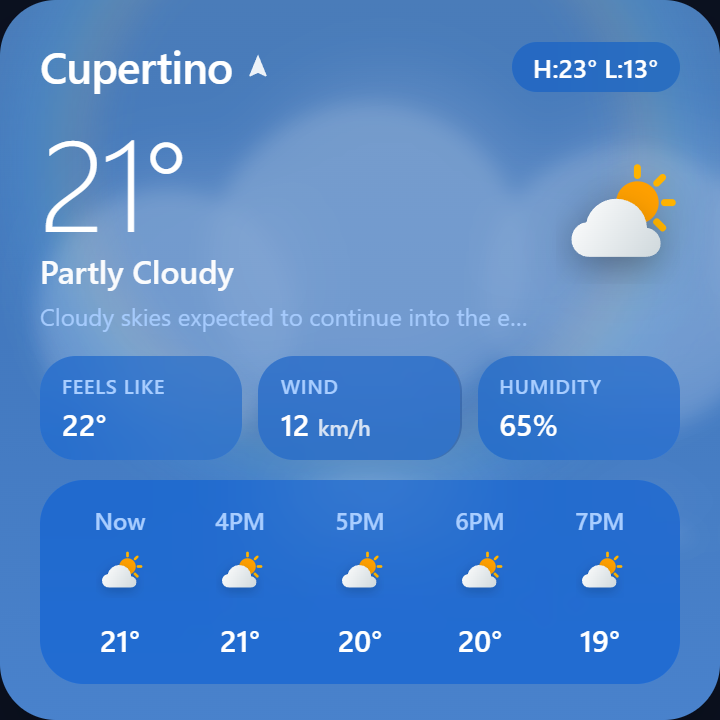
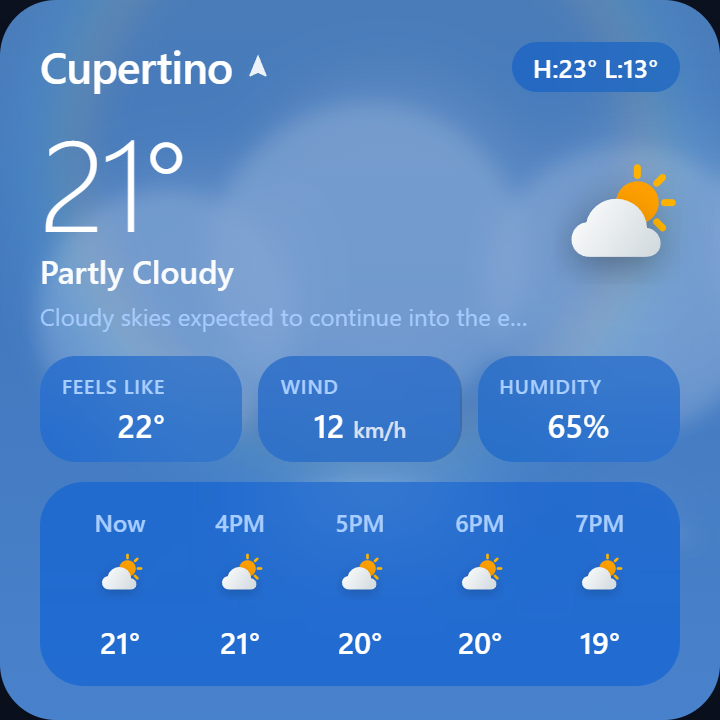
release: v1.1.1 - unify square-fit glass backgrounds, center stat metrics, and fix humidity fallback

diff --git a/src/styles/card-styles.ts b/src/styles/card-styles.ts
@@ -751,10 +751,12 @@ export const cardStyles = css`
   }
 
   .ios-square-fit-stat-val {
-    font-size: 15px;
+    font-size: 16px;
     font-weight: 600;
     color: var(--ios-text-primary);
     white-space: nowrap;
+    width: 100%;
+    text-align: center;
   }
 
   .ios-square-fit-stat-val small {

diff --git a/dist/weather-liquid-glass-card.js b/dist/weather-liquid-glass-card.js
@@ -7804,10 +7804,12 @@ const cardStyles = i$3`
   }
 
   .ios-square-fit-stat-val {
-    font-size: 15px;
+    font-size: 16px;
     font-weight: 600;
     color: var(--ios-text-primary);
     white-space: nowrap;
+    width: 100%;
+    text-align: center;
   }
 
   .ios-square-fit-stat-val small {

diff --git a/weather-liquid-glass-card.js b/weather-liquid-glass-card.js
@@ -7804,10 +7804,12 @@ const cardStyles = i$3`
   }
 
   .ios-square-fit-stat-val {
-    font-size: 15px;
+    font-size: 16px;
     font-weight: 600;
     color: var(--ios-text-primary);
     white-space: nowrap;
+    width: 100%;
+    text-align: center;
   }
 
   .ios-square-fit-stat-val small {

diff --git a/README.md b/README.md
@@ -6,7 +6,7 @@
 </p>
 
 <p align="center">
-  <img src="https://raw.githubusercontent.com/alte-dev/ha-weather-liquid-glass/main/images/icon.png?v=1.1.0" width="128" height="128" alt="Liquid Glass Weather Card Icon">
+  <img src="https://raw.githubusercontent.com/alte-dev/ha-weather-liquid-glass/main/images/icon.png?v=1.1.1" width="128" height="128" alt="Liquid Glass Weather Card Icon">
 </p>
 
 <h1 align="center">🌤 Liquid Glass Weather Card for Home Assistant</h1>
@@ -28,17 +28,17 @@ Apple iOS 27 inspired glassmorphic weather card for Home Assistant Lovelace dash
 ### 1. 🔀 3 Interactive Modes
 | ⛅ Condition & 10-Day Temp | 💧 24h Rain Timeline & Gauge | 💨 Wind Speed & Waves |
 |:---:|:---:|:---:|
-| <img src="https://raw.githubusercontent.com/alte-dev/ha-weather-liquid-glass/main/images/preview-default.png?v=1.1.0" width="240" alt="Condition Mode" /> | <img src="https://raw.githubusercontent.com/alte-dev/ha-weather-liquid-glass/main/images/preview-rain.png?v=1.1.0" width="240" alt="Precipitation Mode" /> | <img src="https://raw.githubusercontent.com/alte-dev/ha-weather-liquid-glass/main/images/preview-wind.png?v=1.1.0" width="240" alt="Wind Mode" /> |
+| <img src="https://raw.githubusercontent.com/alte-dev/ha-weather-liquid-glass/main/images/preview-default.png?v=1.1.1" width="240" alt="Condition Mode" /> | <img src="https://raw.githubusercontent.com/alte-dev/ha-weather-liquid-glass/main/images/preview-rain.png?v=1.1.1" width="240" alt="Precipitation Mode" /> | <img src="https://raw.githubusercontent.com/alte-dev/ha-weather-liquid-glass/main/images/preview-wind.png?v=1.1.1" width="240" alt="Wind Mode" /> |
 
 ### 2. 📐 5 Distinct Card Layouts
 
 | Layout | Screenshot | Description |
 |:---|:---:|:---|
-| **Default (Full)**<br>`card_layout: default` | <img src="https://raw.githubusercontent.com/alte-dev/ha-weather-liquid-glass/main/images/preview-default.png?v=1.1.0" width="200" /> | Full vertical iOS phone style with header, smart highlights, hourly strip, 10-day forecast, and bottom bar. Supports `scrollable: true` and `card_height`. |
-| **Square (Fitted Widget)**<br>`card_layout: square-fit` | <img src="https://raw.githubusercontent.com/alte-dev/ha-weather-liquid-glass/main/images/preview-square-fit.png?v=1.1.0" width="200" /> | 1:1 Square widget with **zero scrolling**! Large temperature, condition summary, 3 frosted quick-stat pills (Feels Like, Wind, Humidity), and 5-hour forecast strip. |
-| **Square (Scrollable)**<br>`card_layout: square-scroll` | <img src="https://raw.githubusercontent.com/alte-dev/ha-weather-liquid-glass/main/images/preview-square-scroll.png?v=1.1.0" width="200" /> | 1:1 Square box with **smooth internal scrolling**! Access the entire rich forecast inside a compact square footprint. |
-| **Compact (Horizontal)**<br>`card_layout: compact` | <img src="https://raw.githubusercontent.com/alte-dev/ha-weather-liquid-glass/main/images/preview-compact.png?v=1.1.0" width="240" /> | Horizontal card (~240px). Side-by-side header with 24h hourly strip, ideal for multi-column dashboards. |
-| **Mini Widget**<br>`card_layout: mini` | <img src="https://raw.githubusercontent.com/alte-dev/ha-weather-liquid-glass/main/images/preview-mini.png?v=1.1.0" width="220" /> | Ultra-clean minimal glanceable widget (~130px). City, big temp, condition, high/low, and rain chance badge. |
+| **Default (Full)**<br>`card_layout: default` | <img src="https://raw.githubusercontent.com/alte-dev/ha-weather-liquid-glass/main/images/preview-default.png?v=1.1.1" width="200" /> | Full vertical iOS phone style with header, smart highlights, hourly strip, 10-day forecast, and bottom bar. Supports `scrollable: true` and `card_height`. |
+| **Square (Fitted Widget)**<br>`card_layout: square-fit` | <img src="https://raw.githubusercontent.com/alte-dev/ha-weather-liquid-glass/main/images/preview-square-fit.png?v=1.1.1" width="200" /> | 1:1 Square widget with **zero scrolling**! Large temperature, condition summary, 3 frosted quick-stat pills (Feels Like, Wind, Humidity), and 5-hour forecast strip. |
+| **Square (Scrollable)**<br>`card_layout: square-scroll` | <img src="https://raw.githubusercontent.com/alte-dev/ha-weather-liquid-glass/main/images/preview-square-scroll.png?v=1.1.1" width="200" /> | 1:1 Square box with **smooth internal scrolling**! Access the entire rich forecast inside a compact square footprint. |
+| **Compact (Horizontal)**<br>`card_layout: compact` | <img src="https://raw.githubusercontent.com/alte-dev/ha-weather-liquid-glass/main/images/preview-compact.png?v=1.1.1" width="240" /> | Horizontal card (~240px). Side-by-side header with 24h hourly strip, ideal for multi-column dashboards. |
+| **Mini Widget**<br>`card_layout: mini` | <img src="https://raw.githubusercontent.com/alte-dev/ha-weather-liquid-glass/main/images/preview-mini.png?v=1.1.1" width="220" /> | Ultra-clean minimal glanceable widget (~130px). City, big temp, condition, high/low, and rain chance badge. |
 
 ### 3. 🎨 Dynamic Atmospheric Weather Backgrounds
 
@@ -46,9 +46,9 @@ Dynamic Apple Weather gradients and sky animations adapted to weather states:
 
 | ☀ Sunny | ⛅ Cloudy / Overcast | 🌧 Rainy |
 |:---:|:---:|:---:|
-| <img src="https://raw.githubusercontent.com/alte-dev/ha-weather-liquid-glass/main/images/theme-sunny.png?v=1.1.0" width="220" alt="Sunny Theme" /> | <img src="https://raw.githubusercontent.com/alte-dev/ha-weather-liquid-glass/main/images/theme-cloudy.png?v=1.1.0" width="220" alt="Cloudy Theme" /> | <img src="https://raw.githubusercontent.com/alte-dev/ha-weather-liquid-glass/main/images/theme-rainy.png?v=1.1.0" width="220" alt="Rainy Theme" /> |
+| <img src="https://raw.githubusercontent.com/alte-dev/ha-weather-liquid-glass/main/images/theme-sunny.png?v=1.1.1" width="220" alt="Sunny Theme" /> | <img src="https://raw.githubusercontent.com/alte-dev/ha-weather-liquid-glass/main/images/theme-cloudy.png?v=1.1.1" width="220" alt="Cloudy Theme" /> | <img src="https://raw.githubusercontent.com/alte-dev/ha-weather-liquid-glass/main/images/theme-rainy.png?v=1.1.1" width="220" alt="Rainy Theme" /> |
 | **❄ Snowy** | **⚡ Thunderstorm** | **🌙 Clear Night** |
-| <img src="https://raw.githubusercontent.com/alte-dev/ha-weather-liquid-glass/main/images/theme-snowy.png?v=1.1.0" width="220" alt="Snowy Theme" /> | <img src="https://raw.githubusercontent.com/alte-dev/ha-weather-liquid-glass/main/images/theme-thunderstorm.png?v=1.1.0" width="220" alt="Thunderstorm Theme" /> | <img src="https://raw.githubusercontent.com/alte-dev/ha-weather-liquid-glass/main/images/theme-night.png?v=1.1.0" width="220" alt="Clear Night Theme" /> |
+| <img src="https://raw.githubusercontent.com/alte-dev/ha-weather-liquid-glass/main/images/theme-snowy.png?v=1.1.1" width="220" alt="Snowy Theme" /> | <img src="https://raw.githubusercontent.com/alte-dev/ha-weather-liquid-glass/main/images/theme-thunderstorm.png?v=1.1.1" width="220" alt="Thunderstorm Theme" /> | <img src="https://raw.githubusercontent.com/alte-dev/ha-weather-liquid-glass/main/images/theme-night.png?v=1.1.1" width="220" alt="Clear Night Theme" /> |
 
 ---
 
@@ -188,6 +188,9 @@ Privacy is a fundamental consideration:
 ## 📋 Changelog
 
 Full version history is available in [CHANGELOG.md](CHANGELOG.md).
+
+### [v1.1.1] - 2026-11-14
+- **✨ Square Fitted (`square-fit`) Polish & Humidity Fix:** Unified frosted glass backgrounds with `default`/`square-scroll`, centered quick-stat metric values, and added multi-source fallbacks so the **Humidity** pill always displays.
 
 ### [v1.1.0] - 2026-11-14
 - **📐 Redesigned Square Fitted Widget (`square-fit`) & Fixed Mini Widget (`mini`):**

diff --git a/README.fr.md b/README.fr.md
@@ -6,7 +6,7 @@
 </p>
 
 <p align="center">
-  <img src="https://raw.githubusercontent.com/alte-dev/ha-weather-liquid-glass/main/images/icon.png?v=1.1.0" width="128" height="128" alt="Liquid Glass Weather Card Icon">
+  <img src="https://raw.githubusercontent.com/alte-dev/ha-weather-liquid-glass/main/images/icon.png?v=1.1.1" width="128" height="128" alt="Liquid Glass Weather Card Icon">
 </p>
 
 <h1 align="center">🌤 Carte Météo Liquid Glass pour Home Assistant</h1>
@@ -28,17 +28,17 @@ Carte météo glassmorphique inspirée d'Apple iOS 27 pour les tableaux de bord 
 ### 1. 🔀 3 Modes interactifs
 | ⛅ Conditions & 10 jours | 💧 24h Précipitations & Intensité | 💨 Vitesse du vent & Ondes |
 |:---:|:---:|:---:|
-| <img src="https://raw.githubusercontent.com/alte-dev/ha-weather-liquid-glass/main/images/preview-default.png?v=1.1.0" width="240" alt="Mode Conditions" /> | <img src="https://raw.githubusercontent.com/alte-dev/ha-weather-liquid-glass/main/images/preview-rain.png?v=1.1.0" width="240" alt="Mode Précipitations" /> | <img src="https://raw.githubusercontent.com/alte-dev/ha-weather-liquid-glass/main/images/preview-wind.png?v=1.1.0" width="240" alt="Mode Vent" /> |
+| <img src="https://raw.githubusercontent.com/alte-dev/ha-weather-liquid-glass/main/images/preview-default.png?v=1.1.1" width="240" alt="Mode Conditions" /> | <img src="https://raw.githubusercontent.com/alte-dev/ha-weather-liquid-glass/main/images/preview-rain.png?v=1.1.1" width="240" alt="Mode Précipitations" /> | <img src="https://raw.githubusercontent.com/alte-dev/ha-weather-liquid-glass/main/images/preview-wind.png?v=1.1.1" width="240" alt="Mode Vent" /> |
 
 ### 2. 📐 5 Dispositions de carte
 
 | Disposition | Capture | Description |
 |:---|:---:|:---|
-| **Défaut (Complet)**<br>`card_layout: default` | <img src="https://raw.githubusercontent.com/alte-dev/ha-weather-liquid-glass/main/images/preview-default.png?v=1.1.0" width="200" /> | Vue verticale complète style iPhone avec en-tête, points forts, prévisions horaires, liste sur 10 jours et barre inférieure. Prend en charge `scrollable: true` et `card_height`. |
-| **Carré (Widget Ajusté)**<br>`card_layout: square-fit` | <img src="https://raw.githubusercontent.com/alte-dev/ha-weather-liquid-glass/main/images/preview-square-fit.png?v=1.1.0" width="200" /> | Widget carré 1:1 avec **zéro défilement**! Grande température, icône animée, sélecteur à 3 modes et boîte de prévisions sur 5 heures. |
-| **Carré (Avec Défilement)**<br>`card_layout: square-scroll` | <img src="https://raw.githubusercontent.com/alte-dev/ha-weather-liquid-glass/main/images/preview-square-scroll.png?v=1.1.0" width="200" /> | Carte carrée 1:1 avec **défilement vertical fluide**! Toutes les informations avec de subtiles animations de pluie et de neige en arrière-plan. |
-| **Compact (Horizontal)**<br>`card_layout: compact` | <img src="https://raw.githubusercontent.com/alte-dev/ha-weather-liquid-glass/main/images/preview-compact.png?v=1.1.0" width="240" /> | Carte rectangulaire (~240px). En-tête côte à côte avec prévisions sur 24 heures, idéale pour les tableaux de bord à colonnes multiples. |
-| **Mini Widget**<br>`card_layout: mini` | <img src="https://raw.githubusercontent.com/alte-dev/ha-weather-liquid-glass/main/images/preview-mini.png?v=1.1.0" width="220" /> | Widget minimaliste épuré (~130px). Ville, température, condition, maximales/minimales et badge de probabilité de pluie. |
+| **Défaut (Complet)**<br>`card_layout: default` | <img src="https://raw.githubusercontent.com/alte-dev/ha-weather-liquid-glass/main/images/preview-default.png?v=1.1.1" width="200" /> | Vue verticale complète style iPhone avec en-tête, points forts, prévisions horaires, liste sur 10 jours et barre inférieure. Prend en charge `scrollable: true` et `card_height`. |
+| **Carré (Widget Ajusté)**<br>`card_layout: square-fit` | <img src="https://raw.githubusercontent.com/alte-dev/ha-weather-liquid-glass/main/images/preview-square-fit.png?v=1.1.1" width="200" /> | Widget carré 1:1 avec **zéro défilement**! Grande température, icône animée, sélecteur à 3 modes et boîte de prévisions sur 5 heures. |
+| **Carré (Avec Défilement)**<br>`card_layout: square-scroll` | <img src="https://raw.githubusercontent.com/alte-dev/ha-weather-liquid-glass/main/images/preview-square-scroll.png?v=1.1.1" width="200" /> | Carte carrée 1:1 avec **défilement vertical fluide**! Toutes les informations avec de subtiles animations de pluie et de neige en arrière-plan. |
+| **Compact (Horizontal)**<br>`card_layout: compact` | <img src="https://raw.githubusercontent.com/alte-dev/ha-weather-liquid-glass/main/images/preview-compact.png?v=1.1.1" width="240" /> | Carte rectangulaire (~240px). En-tête côte à côte avec prévisions sur 24 heures, idéale pour les tableaux de bord à colonnes multiples. |
+| **Mini Widget**<br>`card_layout: mini` | <img src="https://raw.githubusercontent.com/alte-dev/ha-weather-liquid-glass/main/images/preview-mini.png?v=1.1.1" width="220" /> | Widget minimaliste épuré (~130px). Ville, température, condition, maximales/minimales et badge de probabilité de pluie. |
 
 ### 3. 🎨 Arrières-plans météo atmosphériques dynamiques
 
@@ -46,9 +46,9 @@ Dégradés Apple Weather adaptés automatiquement selon les conditions météoro
 
 | ☀ Ensoleillé | ⛅ Nuageux / Couvert | 🌧 Pluie (Effet subtil) |
 |:---:|:---:|:---:|
-| <img src="https://raw.githubusercontent.com/alte-dev/ha-weather-liquid-glass/main/images/theme-sunny.png?v=1.1.0" width="220" alt="Thème Ensoleillé" /> | <img src="https://raw.githubusercontent.com/alte-dev/ha-weather-liquid-glass/main/images/theme-cloudy.png?v=1.1.0" width="220" alt="Thème Nuageux" /> | <img src="https://raw.githubusercontent.com/alte-dev/ha-weather-liquid-glass/main/images/theme-rainy.png?v=1.1.0" width="220" alt="Thème Pluie" /> |
+| <img src="https://raw.githubusercontent.com/alte-dev/ha-weather-liquid-glass/main/images/theme-sunny.png?v=1.1.1" width="220" alt="Thème Ensoleillé" /> | <img src="https://raw.githubusercontent.com/alte-dev/ha-weather-liquid-glass/main/images/theme-cloudy.png?v=1.1.1" width="220" alt="Thème Nuageux" /> | <img src="https://raw.githubusercontent.com/alte-dev/ha-weather-liquid-glass/main/images/theme-rainy.png?v=1.1.1" width="220" alt="Thème Pluie" /> |
 | **❄ Neige (Flocons légers)** | **⚡ Orage / Éclairs** | **🌙 Nuit claire** |
-| <img src="https://raw.githubusercontent.com/alte-dev/ha-weather-liquid-glass/main/images/theme-snowy.png?v=1.1.0" width="220" alt="Thème Neige" /> | <img src="https://raw.githubusercontent.com/alte-dev/ha-weather-liquid-glass/main/images/theme-thunderstorm.png?v=1.1.0" width="220" alt="Thème Orage" /> | <img src="https://raw.githubusercontent.com/alte-dev/ha-weather-liquid-glass/main/images/theme-night.png?v=1.1.0" width="220" alt="Thème Nuit Claire" /> |
+| <img src="https://raw.githubusercontent.com/alte-dev/ha-weather-liquid-glass/main/images/theme-snowy.png?v=1.1.1" width="220" alt="Thème Neige" /> | <img src="https://raw.githubusercontent.com/alte-dev/ha-weather-liquid-glass/main/images/theme-thunderstorm.png?v=1.1.1" width="220" alt="Thème Orage" /> | <img src="https://raw.githubusercontent.com/alte-dev/ha-weather-liquid-glass/main/images/theme-night.png?v=1.1.1" width="220" alt="Thème Nuit Claire" /> |
 
 ---
 

diff --git a/README.de.md b/README.de.md
@@ -6,7 +6,7 @@
 </p>
 
 <p align="center">
-  <img src="https://raw.githubusercontent.com/alte-dev/ha-weather-liquid-glass/main/images/icon.png?v=1.1.0" width="128" height="128" alt="Liquid Glass Weather Card Icon">
+  <img src="https://raw.githubusercontent.com/alte-dev/ha-weather-liquid-glass/main/images/icon.png?v=1.1.1" width="128" height="128" alt="Liquid Glass Weather Card Icon">
 </p>
 
 <h1 align="center">🌤 Liquid Glass Wetterkarte für Home Assistant</h1>
@@ -28,17 +28,17 @@ Von Apple iOS 27 inspirierte Wetterkarte im Glasmorphismus-Design für Home Assi
 ### 1. 🔀 3 Interaktive Modi
 | ⛅ Bedingungen & 10-Tage-Temp | 💧 24h Regenzeitachse & Pegel | 💨 Windgeschwindigkeit & Wellen |
 |:---:|:---:|:---:|
-| <img src="https://raw.githubusercontent.com/alte-dev/ha-weather-liquid-glass/main/images/preview-default.png?v=1.1.0" width="240" alt="Bedingungsmodus" /> | <img src="https://raw.githubusercontent.com/alte-dev/ha-weather-liquid-glass/main/images/preview-rain.png?v=1.1.0" width="240" alt="Niederschlagsmodus" /> | <img src="https://raw.githubusercontent.com/alte-dev/ha-weather-liquid-glass/main/images/preview-wind.png?v=1.1.0" width="240" alt="Windmodus" /> |
+| <img src="https://raw.githubusercontent.com/alte-dev/ha-weather-liquid-glass/main/images/preview-default.png?v=1.1.1" width="240" alt="Bedingungsmodus" /> | <img src="https://raw.githubusercontent.com/alte-dev/ha-weather-liquid-glass/main/images/preview-rain.png?v=1.1.1" width="240" alt="Niederschlagsmodus" /> | <img src="https://raw.githubusercontent.com/alte-dev/ha-weather-liquid-glass/main/images/preview-wind.png?v=1.1.1" width="240" alt="Windmodus" /> |
 
 ### 2. 📐 5 Verschiedene Kartenlayouts
 
 | Layout | Screenshot | Beschreibung |
 |:---|:---:|:---|
-| **Standard (Vollansicht)**<br>`card_layout: default` | <img src="https://raw.githubusercontent.com/alte-dev/ha-weather-liquid-glass/main/images/preview-default.png?v=1.1.0" width="200" /> | Vollständige vertikale iOS-Smartphone-Ansicht mit Kopfzeile, Highlights, 24h-Stundenleiste, 10-Tage-Vorhersage und Fußzeile. Unterstützt `scrollable: true` und `card_height`. |
-| **Quadrat (Angepasstes Widget)**<br>`card_layout: square-fit` | <img src="https://raw.githubusercontent.com/alte-dev/ha-weather-liquid-glass/main/images/preview-square-fit.png?v=1.1.0" width="200" /> | 1:1 Quadratisches Widget mit **Null Scrollen**! Große Temperatur, animiertes Symbol, 3-Wege-Umschalter und 5-Stunden-Kompaktleiste. |
-| **Quadrat (Scrollbar)**<br>`card_layout: square-scroll` | <img src="https://raw.githubusercontent.com/alte-dev/ha-weather-liquid-glass/main/images/preview-square-scroll.png?v=1.1.0" width="200" /> | 1:1 Quadratisches Feld mit **flüssigem vertikalen Scrollen**! Alle Vorhersagen in kompakter quadratischer Größe mit dezenten Regen- und Schnee-Hintergrundanimationen. |
-| **Kompakt (Horizontal)**<br>`card_layout: compact` | <img src="https://raw.githubusercontent.com/alte-dev/ha-weather-liquid-glass/main/images/preview-compact.png?v=1.1.0" width="240" /> | Horizontale Rechteckkarte (~240px). Nebeneinanderliegende Kopfzeile mit 24h-Stundenleiste, ideal für Spalten-Dashboards. |
-| **Mini-Widget**<br>`card_layout: mini` | <img src="https://raw.githubusercontent.com/alte-dev/ha-weather-liquid-glass/main/images/preview-mini.png?v=1.1.0" width="220" /> | Minimalistisches Widget (~130px). Stadt, große Temperatur, Wetterzustand, Höchst-/Tiefstwert und Regenwahrscheinlichkeitsplakette. |
+| **Standard (Vollansicht)**<br>`card_layout: default` | <img src="https://raw.githubusercontent.com/alte-dev/ha-weather-liquid-glass/main/images/preview-default.png?v=1.1.1" width="200" /> | Vollständige vertikale iOS-Smartphone-Ansicht mit Kopfzeile, Highlights, 24h-Stundenleiste, 10-Tage-Vorhersage und Fußzeile. Unterstützt `scrollable: true` und `card_height`. |
+| **Quadrat (Angepasstes Widget)**<br>`card_layout: square-fit` | <img src="https://raw.githubusercontent.com/alte-dev/ha-weather-liquid-glass/main/images/preview-square-fit.png?v=1.1.1" width="200" /> | 1:1 Quadratisches Widget mit **Null Scrollen**! Große Temperatur, animiertes Symbol, 3-Wege-Umschalter und 5-Stunden-Kompaktleiste. |
+| **Quadrat (Scrollbar)**<br>`card_layout: square-scroll` | <img src="https://raw.githubusercontent.com/alte-dev/ha-weather-liquid-glass/main/images/preview-square-scroll.png?v=1.1.1" width="200" /> | 1:1 Quadratisches Feld mit **flüssigem vertikalen Scrollen**! Alle Vorhersagen in kompakter quadratischer Größe mit dezenten Regen- und Schnee-Hintergrundanimationen. |
+| **Kompakt (Horizontal)**<br>`card_layout: compact` | <img src="https://raw.githubusercontent.com/alte-dev/ha-weather-liquid-glass/main/images/preview-compact.png?v=1.1.1" width="240" /> | Horizontale Rechteckkarte (~240px). Nebeneinanderliegende Kopfzeile mit 24h-Stundenleiste, ideal für Spalten-Dashboards. |
+| **Mini-Widget**<br>`card_layout: mini` | <img src="https://raw.githubusercontent.com/alte-dev/ha-weather-liquid-glass/main/images/preview-mini.png?v=1.1.1" width="220" /> | Minimalistisches Widget (~130px). Stadt, große Temperatur, Wetterzustand, Höchst-/Tiefstwert und Regenwahrscheinlichkeitsplakette. |
 
 ### 3. 🎨 Dynamische atmosphärische Wetterhintergründe
 
@@ -46,9 +46,9 @@ Automatische Apple Weather-Farbverläufe und lebendige Himmelsanimationen angepa
 
 | ☀ Sonnig | ⛅ Bewölkt / Bedeckt | 🌧 Regen (Subtile Animation) |
 |:---:|:---:|:---:|
-| <img src="https://raw.githubusercontent.com/alte-dev/ha-weather-liquid-glass/main/images/theme-sunny.png?v=1.1.0" width="220" alt="Sonniges Thema" /> | <img src="https://raw.githubusercontent.com/alte-dev/ha-weather-liquid-glass/main/images/theme-cloudy.png?v=1.1.0" width="220" alt="Bewölktes Thema" /> | <img src="https://raw.githubusercontent.com/alte-dev/ha-weather-liquid-glass/main/images/theme-rainy.png?v=1.1.0" width="220" alt="Regen-Thema" /> |
+| <img src="https://raw.githubusercontent.com/alte-dev/ha-weather-liquid-glass/main/images/theme-sunny.png?v=1.1.1" width="220" alt="Sonniges Thema" /> | <img src="https://raw.githubusercontent.com/alte-dev/ha-weather-liquid-glass/main/images/theme-cloudy.png?v=1.1.1" width="220" alt="Bewölktes Thema" /> | <img src="https://raw.githubusercontent.com/alte-dev/ha-weather-liquid-glass/main/images/theme-rainy.png?v=1.1.1" width="220" alt="Regen-Thema" /> |
 | **❄ Schnee (Sanfte Flocken)** | **⚡ Gewitter / Blitz** | **🌙 Klare Nacht** |
-| <img src="https://raw.githubusercontent.com/alte-dev/ha-weather-liquid-glass/main/images/theme-snowy.png?v=1.1.0" width="220" alt="Schnee-Thema" /> | <img src="https://raw.githubusercontent.com/alte-dev/ha-weather-liquid-glass/main/images/theme-thunderstorm.png?v=1.1.0" width="220" alt="Gewitter-Thema" /> | <img src="https://raw.githubusercontent.com/alte-dev/ha-weather-liquid-glass/main/images/theme-night.png?v=1.1.0" width="220" alt="Klare Nacht-Thema" /> |
+| <img src="https://raw.githubusercontent.com/alte-dev/ha-weather-liquid-glass/main/images/theme-snowy.png?v=1.1.1" width="220" alt="Schnee-Thema" /> | <img src="https://raw.githubusercontent.com/alte-dev/ha-weather-liquid-glass/main/images/theme-thunderstorm.png?v=1.1.1" width="220" alt="Gewitter-Thema" /> | <img src="https://raw.githubusercontent.com/alte-dev/ha-weather-liquid-glass/main/images/theme-night.png?v=1.1.1" width="220" alt="Klare Nacht-Thema" /> |
 
 ---
 

diff --git a/README.es.md b/README.es.md
@@ -6,7 +6,7 @@
 </p>
 
 <p align="center">
-  <img src="https://raw.githubusercontent.com/alte-dev/ha-weather-liquid-glass/main/images/icon.png?v=1.1.0" width="128" height="128" alt="Liquid Glass Weather Card Icon">
+  <img src="https://raw.githubusercontent.com/alte-dev/ha-weather-liquid-glass/main/images/icon.png?v=1.1.1" width="128" height="128" alt="Liquid Glass Weather Card Icon">
 </p>
 
 <h1 align="center">🌤 Tarjeta del Tiempo iOS 27 para Home Assistant</h1>
@@ -28,17 +28,17 @@ Tarjeta meteorológica inspirada en Apple iOS 27 con estética de cristal transl
 ### 1. 🔀 3 Modos interactivos
 | ⛅ Condiciones y 10 días | 💧 24h Lluvia e intensidad | 💨 Viento y ondas |
 |:---:|:---:|:---:|
-| <img src="https://raw.githubusercontent.com/alte-dev/ha-weather-liquid-glass/main/images/preview-default.png?v=1.1.0" width="240" alt="Modo Condiciones" /> | <img src="https://raw.githubusercontent.com/alte-dev/ha-weather-liquid-glass/main/images/preview-rain.png?v=1.1.0" width="240" alt="Modo Precipitación" /> | <img src="https://raw.githubusercontent.com/alte-dev/ha-weather-liquid-glass/main/images/preview-wind.png?v=1.1.0" width="240" alt="Modo Viento" /> |
+| <img src="https://raw.githubusercontent.com/alte-dev/ha-weather-liquid-glass/main/images/preview-default.png?v=1.1.1" width="240" alt="Modo Condiciones" /> | <img src="https://raw.githubusercontent.com/alte-dev/ha-weather-liquid-glass/main/images/preview-rain.png?v=1.1.1" width="240" alt="Modo Precipitación" /> | <img src="https://raw.githubusercontent.com/alte-dev/ha-weather-liquid-glass/main/images/preview-wind.png?v=1.1.1" width="240" alt="Modo Viento" /> |
 
 ### 2. 📐 5 Diseños de tarjeta
 
 | Diseño (Layout) | Captura | Descripción |
 |:---|:---:|:---|
-| **Predeterminado (Completo)**<br>`card_layout: default` | <img src="https://raw.githubusercontent.com/alte-dev/ha-weather-liquid-glass/main/images/preview-default.png?v=1.1.0" width="200" /> | Vista vertical completa estilo iPhone con cabecera, destacados, pronóstico por horas, lista de 10 días y barra inferior. Admite `scrollable: true` y `card_height`. |
-| **Cuadrado (Ajuste Widget)**<br>`card_layout: square-fit` | <img src="https://raw.githubusercontent.com/alte-dev/ha-weather-liquid-glass/main/images/preview-square-fit.png?v=1.1.0" width="200" /> | Widget cuadrado 1:1 con **cero desplazamiento**! Gran temperatura, icono animado, selector de 3 modos y caja de pronóstico de 5 horas. |
-| **Cuadrado (Con Scroll)**<br>`card_layout: square-scroll` | <img src="https://raw.githubusercontent.com/alte-dev/ha-weather-liquid-glass/main/images/preview-square-scroll.png?v=1.1.0" width="200" /> | Tarjeta cuadrada 1:1 con **desplazamiento vertical fluido**! Información completa con animaciones sutiles de lluvia y nieve de fondo. |
-| **Compacto (Horizontal)**<br>`card_layout: compact` | <img src="https://raw.githubusercontent.com/alte-dev/ha-weather-liquid-glass/main/images/preview-compact.png?v=1.1.0" width="240" /> | Tarjeta rectangular (~240px). Cabecera en paralelo con pronóstico por horas de 24h, ideal para paneles con múltiples columnas. |
-| **Mini Widget**<br>`card_layout: mini` | <img src="https://raw.githubusercontent.com/alte-dev/ha-weather-liquid-glass/main/images/preview-mini.png?v=1.1.0" width="220" /> | Widget minimalista (~130px). Ciudad, temperatura, estado del tiempo, máximas/mínimas y probabilidad de lluvia. |
+| **Predeterminado (Completo)**<br>`card_layout: default` | <img src="https://raw.githubusercontent.com/alte-dev/ha-weather-liquid-glass/main/images/preview-default.png?v=1.1.1" width="200" /> | Vista vertical completa estilo iPhone con cabecera, destacados, pronóstico por horas, lista de 10 días y barra inferior. Admite `scrollable: true` y `card_height`. |
+| **Cuadrado (Ajuste Widget)**<br>`card_layout: square-fit` | <img src="https://raw.githubusercontent.com/alte-dev/ha-weather-liquid-glass/main/images/preview-square-fit.png?v=1.1.1" width="200" /> | Widget cuadrado 1:1 con **cero desplazamiento**! Gran temperatura, icono animado, selector de 3 modos y caja de pronóstico de 5 horas. |
+| **Cuadrado (Con Scroll)**<br>`card_layout: square-scroll` | <img src="https://raw.githubusercontent.com/alte-dev/ha-weather-liquid-glass/main/images/preview-square-scroll.png?v=1.1.1" width="200" /> | Tarjeta cuadrada 1:1 con **desplazamiento vertical fluido**! Información completa con animaciones sutiles de lluvia y nieve de fondo. |
+| **Compacto (Horizontal)**<br>`card_layout: compact` | <img src="https://raw.githubusercontent.com/alte-dev/ha-weather-liquid-glass/main/images/preview-compact.png?v=1.1.1" width="240" /> | Tarjeta rectangular (~240px). Cabecera en paralelo con pronóstico por horas de 24h, ideal para paneles con múltiples columnas. |
+| **Mini Widget**<br>`card_layout: mini` | <img src="https://raw.githubusercontent.com/alte-dev/ha-weather-liquid-glass/main/images/preview-mini.png?v=1.1.1" width="220" /> | Widget minimalista (~130px). Ciudad, temperatura, estado del tiempo, máximas/mínimas y probabilidad de lluvia. |
 
 ### 3. 🎨 Fondos atmosféricos dinámicos
 
@@ -46,9 +46,9 @@ Gradientes Apple Weather adaptados automáticamente a las condiciones meteoroló
 
 | ☀ Soleado | ⛅ Nublado / Cubierto | 🌧 Lluvia (Efecto sutil) |
 |:---:|:---:|:---:|
-| <img src="https://raw.githubusercontent.com/alte-dev/ha-weather-liquid-glass/main/images/theme-sunny.png?v=1.1.0" width="220" alt="Tema Soleado" /> | <img src="https://raw.githubusercontent.com/alte-dev/ha-weather-liquid-glass/main/images/theme-cloudy.png?v=1.1.0" width="220" alt="Tema Nublado" /> | <img src="https://raw.githubusercontent.com/alte-dev/ha-weather-liquid-glass/main/images/theme-rainy.png?v=1.1.0" width="220" alt="Tema Lluvioso" /> |
+| <img src="https://raw.githubusercontent.com/alte-dev/ha-weather-liquid-glass/main/images/theme-sunny.png?v=1.1.1" width="220" alt="Tema Soleado" /> | <img src="https://raw.githubusercontent.com/alte-dev/ha-weather-liquid-glass/main/images/theme-cloudy.png?v=1.1.1" width="220" alt="Tema Nublado" /> | <img src="https://raw.githubusercontent.com/alte-dev/ha-weather-liquid-glass/main/images/theme-rainy.png?v=1.1.1" width="220" alt="Tema Lluvioso" /> |
 | **❄ Nieve (Copos suaves)** | **⚡ Tormenta / Rayos** | **🌙 Noche despejada** |
-| <img src="https://raw.githubusercontent.com/alte-dev/ha-weather-liquid-glass/main/images/theme-snowy.png?v=1.1.0" width="220" alt="Tema Nieve" /> | <img src="https://raw.githubusercontent.com/alte-dev/ha-weather-liquid-glass/main/images/theme-thunderstorm.png?v=1.1.0" width="220" alt="Tema Tormenta" /> | <img src="https://raw.githubusercontent.com/alte-dev/ha-weather-liquid-glass/main/images/theme-night.png?v=1.1.0" width="220" alt="Tema Noche" /> |
+| <img src="https://raw.githubusercontent.com/alte-dev/ha-weather-liquid-glass/main/images/theme-snowy.png?v=1.1.1" width="220" alt="Tema Nieve" /> | <img src="https://raw.githubusercontent.com/alte-dev/ha-weather-liquid-glass/main/images/theme-thunderstorm.png?v=1.1.1" width="220" alt="Tema Tormenta" /> | <img src="https://raw.githubusercontent.com/alte-dev/ha-weather-liquid-glass/main/images/theme-night.png?v=1.1.1" width="220" alt="Tema Noche" /> |
 
 ---
 

diff --git a/CHANGELOG.md b/CHANGELOG.md
@@ -6,6 +6,22 @@ The format is based on [Keep a Changelog](https://keepachangelog.com/en/1.1.0/),
 
 ---
 
+## [v1.1.1] - 2026-11-14
+
+### 🇬🇧 English
+- **Square Fitted (`square-fit`) Visual Polish & Humidity Fallback**:
+  - Unified frosted glass pill and hourly forecast box backgrounds (`var(--ios-glass-bg)` + `var(--ios-glass-blur)`) and scaled sky gradient height (`background-size: 100% 155%`) to match `default` and `square-scroll` brightness.
+  - Centered the metric values (**Feels Like**, **Wind**, **Humidity**) inside the 3 quick-stat pills while keeping the labels top-left aligned.
+  - Added multi-source humidity/wind/apparent temperature fallbacks (`sensor_humidity` → `entity.attributes.humidity` → hourly forecast → daily forecast → `--`) so the Humidity pill never disappears when a weather integration omits the attribute.
+
+### 🇹🇷 Türkçe
+- **Kare Tam Sığan (`square-fit`) Görsel İyileştirme ve Nem Oranı Düzeltmesi**:
+  - Bilgi haplarının ve saatlik tahmin kutusunun arka planları `default` ve `square-scroll` görünümleriyle tamamen eşitlendi (`var(--ios-glass-bg)`, `var(--ios-glass-blur)` ve `background-size: 100% 155%`).
+  - **Hissedilen**, **Rüzgar** ve **Nem Oranı** kutularındaki metrik değerler kutu içinde ortalandı.
+  - Hava durumu entegrasyonu `humidity` özniteliğini boş bıraksa bile Nem Oranı kutusunun kaybolmaması için çoklu yedekleme (`sensor_humidity` → `entity.attributes.humidity` → saatlik tahmin → günlük tahmin → `--`) eklendi.
+
+---
+
 ## [v1.1.0] - 2026-11-14
 
 ### 🇬🇧 English
